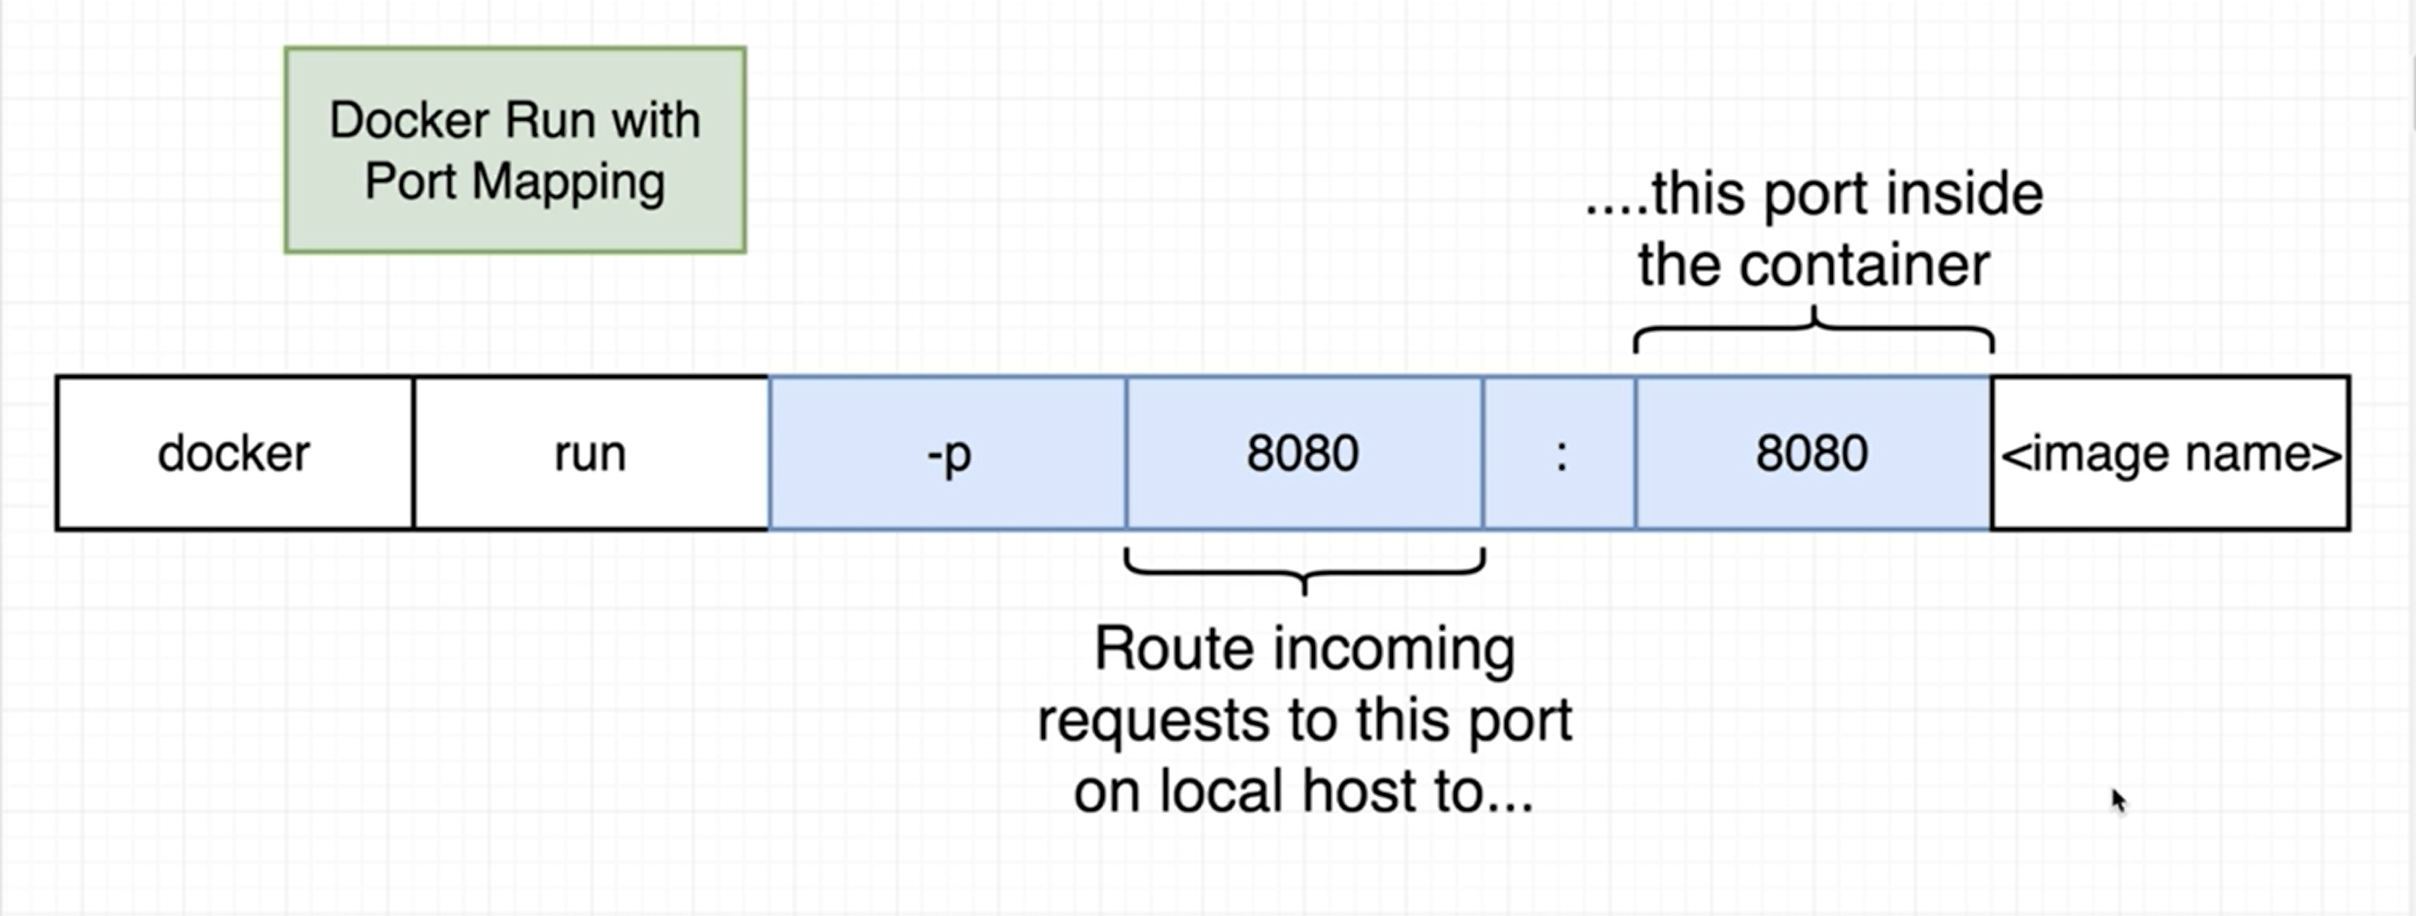
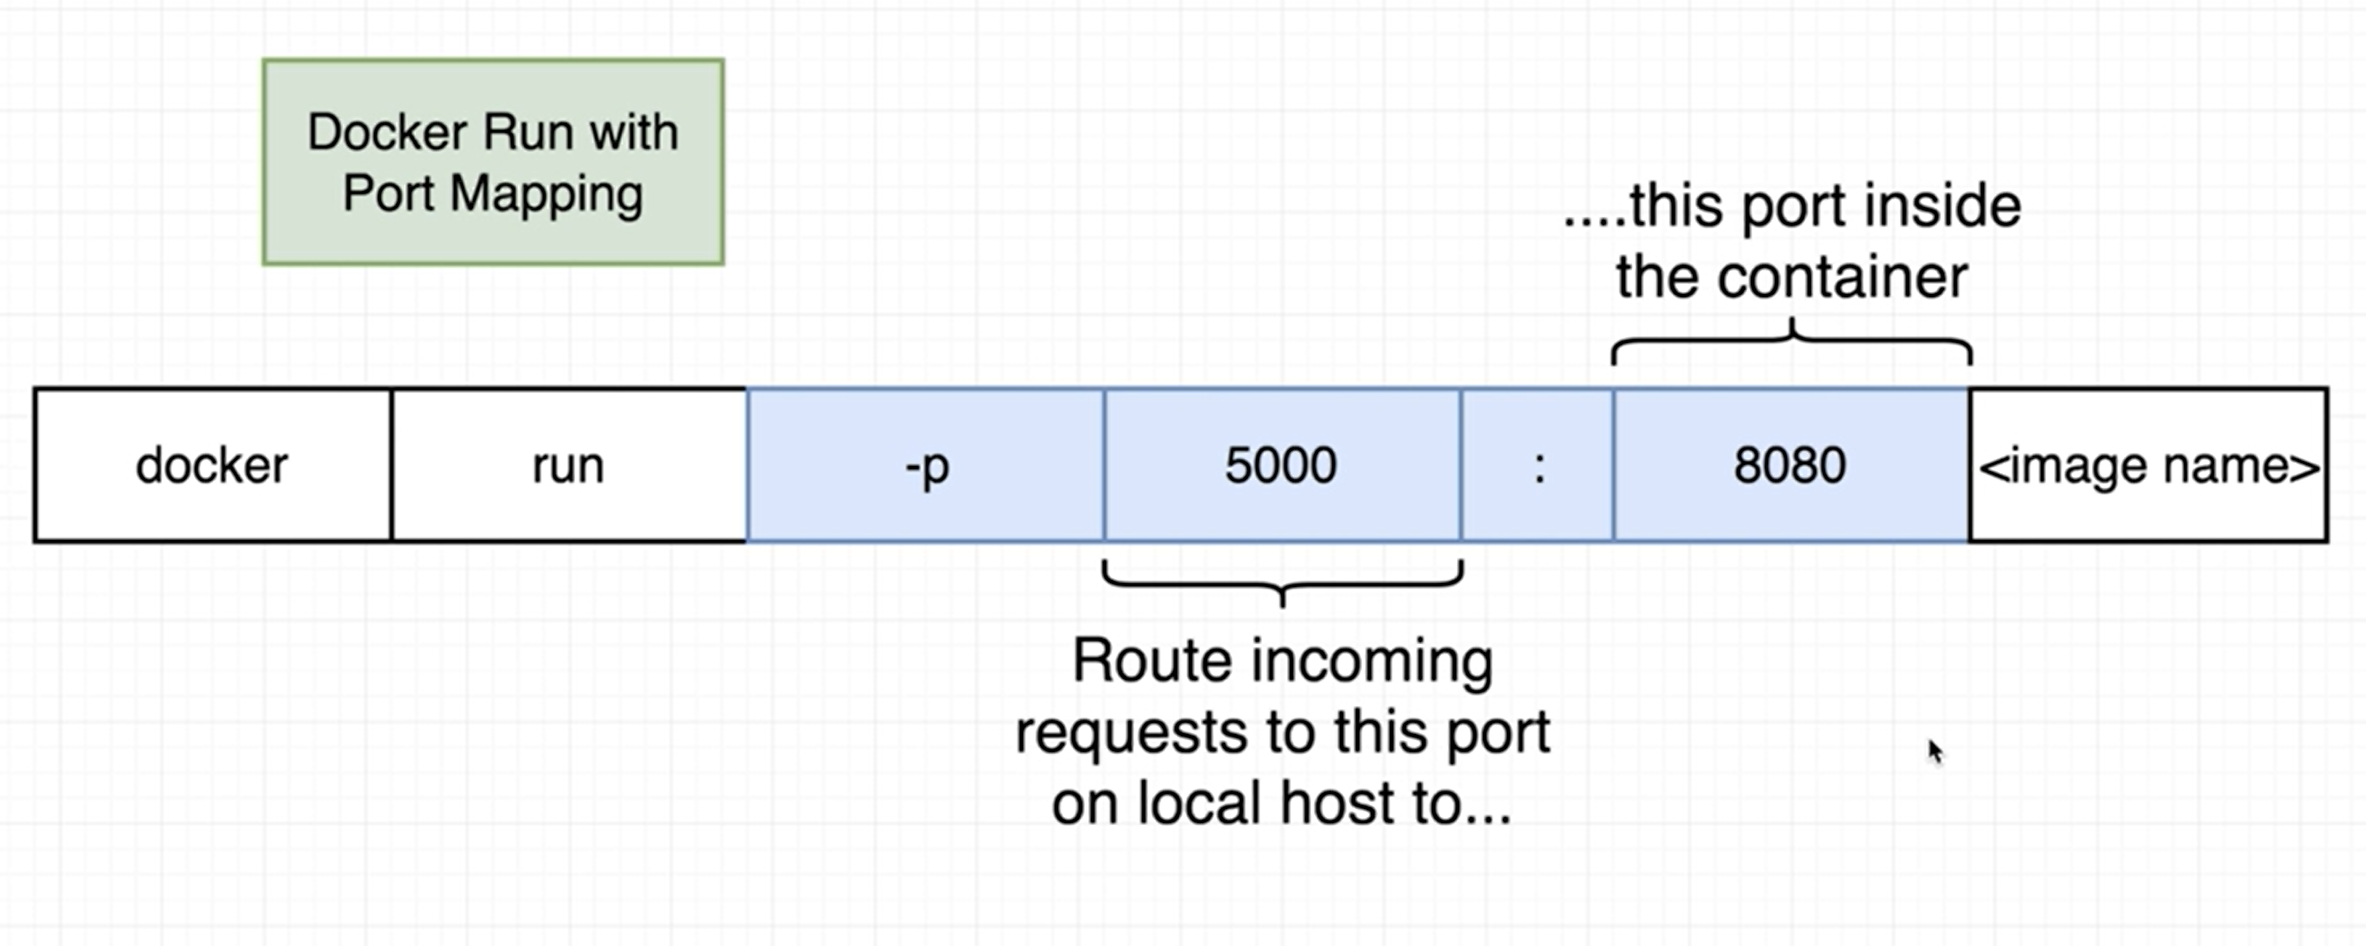
updaed the graphs for port mapping

diff --git a/01 - Manipulating Containers with the Docker Client/readme.md b/01 - Manipulating Containers with the Docker Client/readme.md
@@ -10,8 +10,9 @@
 ## docker run [image] command
 ![alt text](./images/image-1.png)
 ![alt text](./images/image-2.png)
-## docker run -p 8080:8080 [image] command
+## docker run -p 5000:8080 [image] command
 ![alt text](./images/image-10.png)
+![alt text](./images/image-11.png)
 ## docker create [image]
 
 ## docker start [container id]
